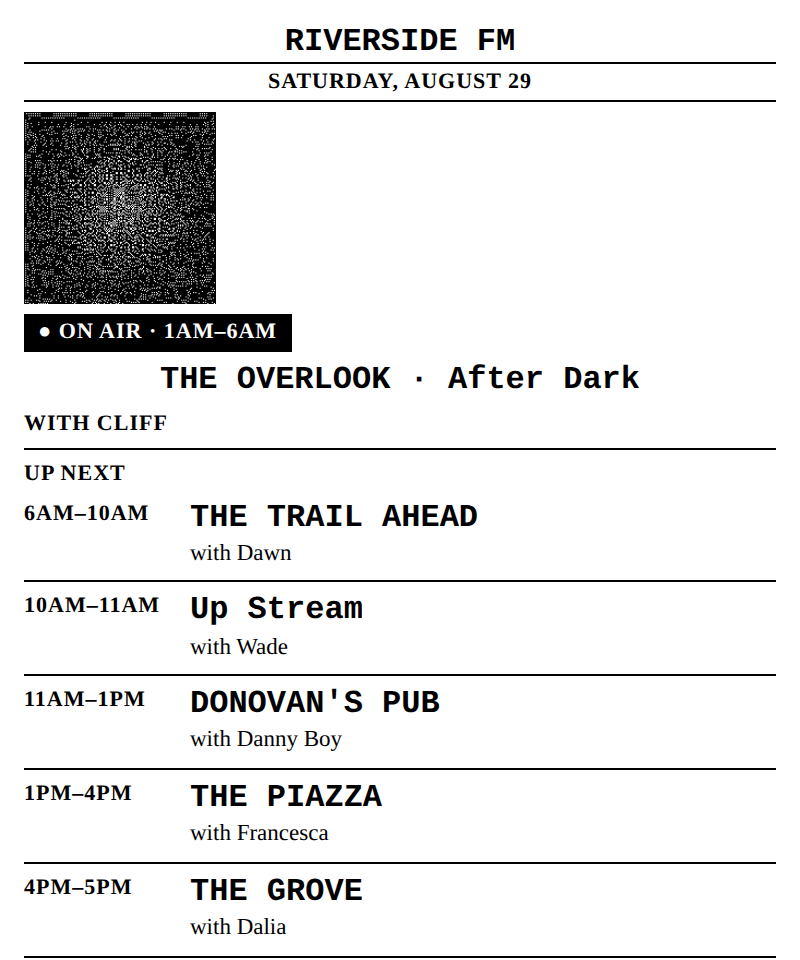
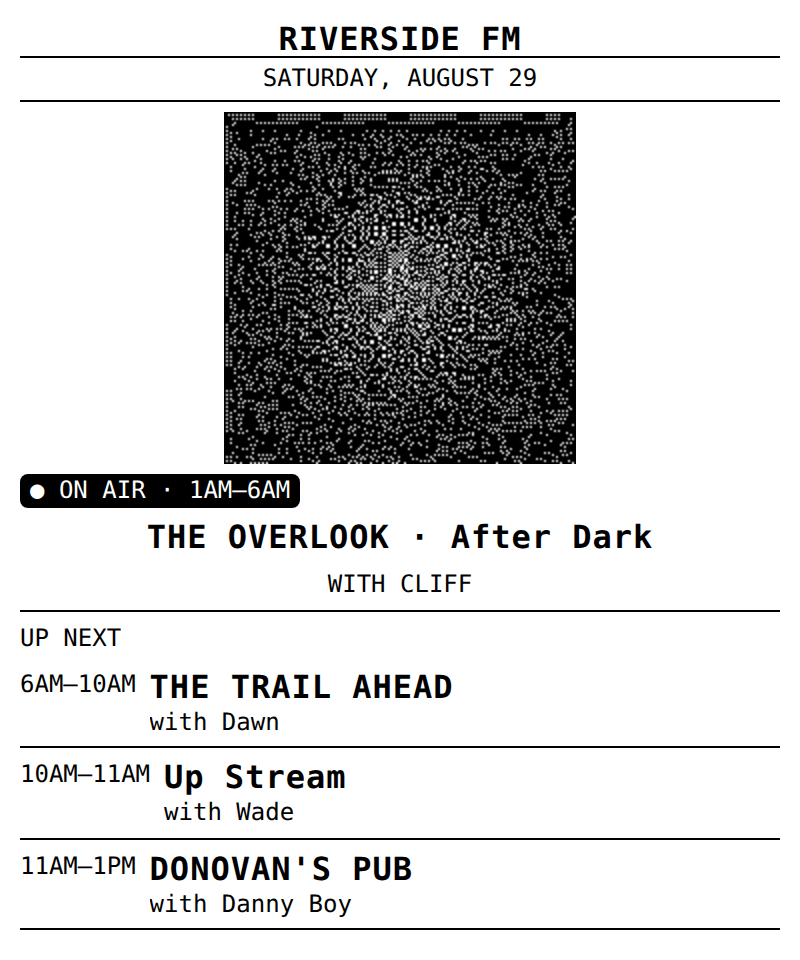
Fix alignment, solid rules and gap leakage against real Framework defaults

diff --git a/CHANGELOG.md b/CHANGELOG.md
@@ -37,6 +37,15 @@ to [Semantic Versioning](https://semver.org/spec/v2.0.0.html).
   (`portrait:flex--col`), and the description clamps to fewer lines there.
 - Masthead subtitle set at 12px so a long web address and the date fit on one
   line instead of truncating.
+- **Alignment corrected against the real Framework defaults.** `.layout` and
+  `.flex--row` both centre on both axes, and the `flex--left` / `flex--top`
+  modifiers only exist compounded with a direction class &mdash; so they are now
+  always paired. Every nested flex container carries an explicit `gap--*`,
+  because bare `.flex` applies a 10px gap that was compounding into what looked
+  like excess padding.
+- **Solid rules.** `.divider` is hard-coded to border level 6, a 12px-period
+  dithered pattern that renders as light dots. All rules now use
+  `border--h-black` / `border--v-black`, the only unconditionally solid ones.
 
 ### Removed
 
